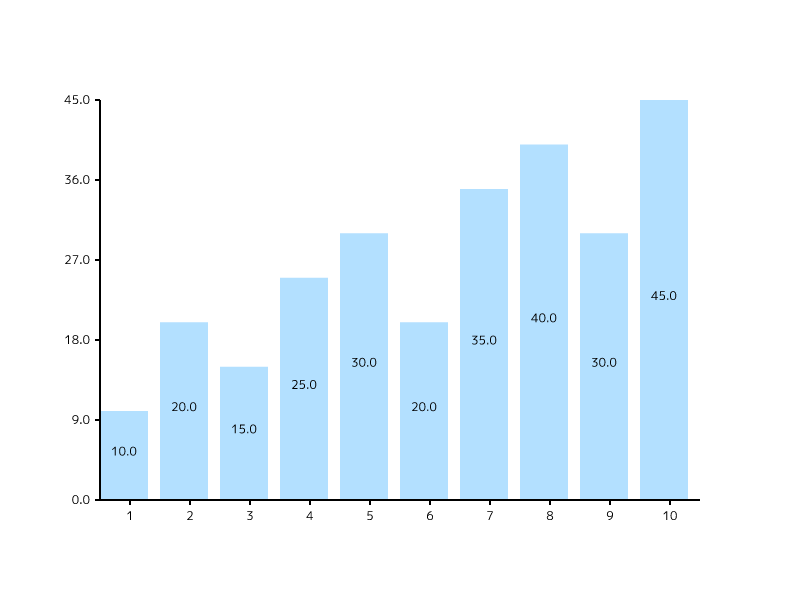
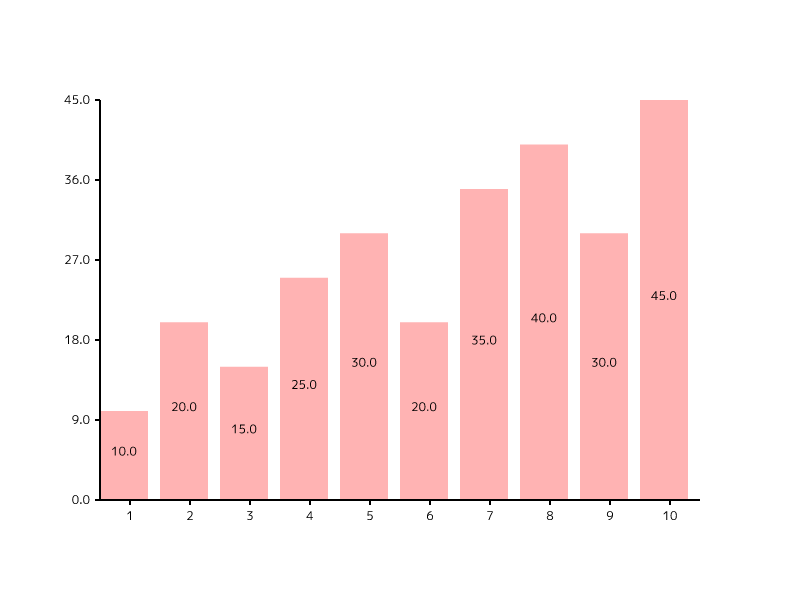
🎨 feat: enhance chart color customization
- Add colors field to GraphRequest struct

- Implement color customization for bar, line, and scatter charts

- Update bar chart to use single color for all bars

- Update scatter plot to use single color for all points

- Update line chart to use single color for line and points

- Update README examples with color parameters

- Remove version from wrangler.toml

Changed region(s): [[0.125, 0.15, 0.875, 0.84]]

diff --git a/src/lib.rs b/src/lib.rs
@@ -49,6 +49,7 @@ struct GraphRequest {
     title: Option<String>,
     x_label: Option<String>,
     y_label: Option<String>,
+    colors: Option<Vec<String>>, // Add colors field
 }
 
 #[event(fetch)]
@@ -85,16 +86,17 @@ pub async fn main(mut req: Request, _env: Env, _ctx: Context) -> Result<Response
 fn parse_query_params(url: Url) -> core::result::Result<GraphRequest, &'static str> {
     let params = url.query_pairs();
     let mut graph_type = GraphType::default();
-    let mut data = Vec::new();
-    let mut series = Vec::new();
-    let mut title = None;
-    let mut x_label = None;
-    let mut y_label = None;
+    let mut data: Vec<f64> = Vec::new();
+    let mut series: Vec<Series> = Vec::new();
+    let mut title: Option<String> = None;
+    let mut x_label: Option<String> = None;
+    let mut y_label: Option<String> = None;
+    let mut colors: Option<Vec<String>> = None;
 
     // シリーズデータのための一時的な保存領域
-    let mut series_values = Vec::new();
-    let mut series_labels = Vec::new();
-    let mut series_colors = Vec::new();
+    let mut series_values: Vec<f64> = Vec::new();
+    let mut series_labels: Vec<String> = Vec::new();
+    let mut series_colors: Vec<String> = Vec::new();
 
     for (key, value) in params {
         match key.as_ref() {
@@ -121,7 +123,7 @@ fn parse_query_params(url: Url) -> core::result::Result<GraphRequest, &'static s
                 series_labels = value.split(',').map(|s| s.trim().to_string()).collect();
             }
             "colors" => {
-                series_colors = value.split(',').map(|s| s.trim().to_string()).collect();
+                colors = Some(value.split(',').map(|s| s.trim().to_string()).collect());
             }
             "title" => title = Some(value.to_string()),
             "x_label" => x_label = Some(value.to_string()),
@@ -135,7 +137,7 @@ fn parse_query_params(url: Url) -> core::result::Result<GraphRequest, &'static s
         let mut series_data = Vec::new();
         for (i, &value) in series_values.iter().enumerate() {
             let label = series_labels.get(i).cloned();
-            let color = series_colors.get(i).cloned();
+            let color = colors.as_ref().and_then(|c| c.get(i).cloned());
             series_data.push(DataPoint {
                 value,
                 label,
@@ -145,7 +147,7 @@ fn parse_query_params(url: Url) -> core::result::Result<GraphRequest, &'static s
         series.push(Series {
             name: None,
             data: series_data,
-            color: None,
+            color: colors.as_ref().and_then(|c| c.first().cloned()),
         });
     }
 
@@ -160,7 +162,14 @@ fn parse_query_params(url: Url) -> core::result::Result<GraphRequest, &'static s
         title,
         x_label,
         y_label,
+        colors,
     })
+}
+
+fn get_default_colors() -> Vec<&'static str> {
+    vec![
+        "#0000FF", "#FFB3B3", "#B3E0FF", "#FFE6B3", "#B3FFB3", "#E6B3FF", "#FFD9B3",
+    ]
 }
 
 fn create_chart(graph_req: &GraphRequest) -> core::result::Result<Vec<u8>, String> {
@@ -179,22 +188,53 @@ fn create_chart(graph_req: &GraphRequest) -> core::result::Result<Vec<u8>, Strin
             data: graph_req
                 .data
                 .iter()
-                .map(|&v| DataPoint {
+                .enumerate()
+                .map(|(i, &v)| DataPoint {
                     value: v,
                     label: None,
-                    color: None,
+                    color: graph_req.colors.as_ref().and_then(|c| c.get(i).cloned()),
                 })
                 .collect(),
-            color: None,
+            color: graph_req.colors.as_ref().and_then(|c| c.first().cloned()),
         }]
     } else {
         graph_req.series.clone()
     };
 
     let (chart_content, needs_axes) = match graph_req.graph_type {
-        GraphType::Bar => (generate_bar_chart_svg(&graph_req.data), true),
-        GraphType::Scatter => (generate_scatter_chart_svg(&graph_req.data), true),
-        GraphType::Line => (generate_line_chart_svg(&graph_req.data), true),
+        GraphType::Bar => (
+            generate_bar_chart_svg(
+                &graph_req.data,
+                &series[0]
+                    .data
+                    .iter()
+                    .filter_map(|d| d.color.clone())
+                    .collect::<Vec<String>>(),
+            ),
+            true,
+        ),
+        GraphType::Scatter => (
+            generate_scatter_chart_svg(
+                &graph_req.data,
+                &series[0]
+                    .data
+                    .iter()
+                    .filter_map(|d| d.color.clone())
+                    .collect::<Vec<String>>(),
+            ),
+            true,
+        ),
+        GraphType::Line => (
+            generate_line_chart_svg(
+                &graph_req.data,
+                &series[0]
+                    .data
+                    .iter()
+                    .filter_map(|d| d.color.clone())
+                    .collect::<Vec<String>>(),
+            ),
+            true,
+        ),
         GraphType::Pie => (generate_pie_chart_svg(&series, false), false),
         GraphType::Donut => (generate_pie_chart_svg(&series, true), false),
         GraphType::Area => (generate_area_chart_svg(&series), true),
@@ -325,10 +365,15 @@ fn generate_x_axis_ticks(num_bars: usize) -> String {
     ticks
 }
 
-fn generate_bar_chart_svg(data: &[f64]) -> String {
+fn generate_bar_chart_svg(data: &[f64], colors: &[String]) -> String {
     let max_value = data.iter().copied().fold(f64::NEG_INFINITY, f64::max);
     let bar_width = 600.0 / data.len() as f64;
     let scale = 400.0 / max_value;
+    let default_colors = get_default_colors();
+    let color = colors
+        .first()
+        .map(|s| s.as_str())
+        .unwrap_or(default_colors[0]);
 
     data.iter()
         .enumerate()
@@ -339,11 +384,12 @@ fn generate_bar_chart_svg(data: &[f64]) -> String {
             let text_x = x + (bar_width * 0.4);
             let text_y = y + (height / 2.0);
             format!(
-                "<rect x=\"{}\" y=\"{}\" width=\"{}\" height=\"{}\" fill=\"#B3E0FF\"/><path d=\"M {} {} h 0\" stroke=\"white\" stroke-width=\"1\"/><path d=\"M {} {} h 0\" stroke=\"black\" stroke-width=\"1\"/><path d=\"M {} {} h 0\" stroke=\"white\" stroke-width=\"2\" fill=\"none\"/>{}>",
+                "<rect x=\"{}\" y=\"{}\" width=\"{}\" height=\"{}\" fill=\"{}\"/><path d=\"M {} {} h 0\" stroke=\"white\" stroke-width=\"1\"/><path d=\"M {} {} h 0\" stroke=\"black\" stroke-width=\"1\"/><path d=\"M {} {} h 0\" stroke=\"white\" stroke-width=\"2\" fill=\"none\"/>{}>",
                 x,
                 y,
                 bar_width * 0.8,
                 height,
+                color,
                 text_x,
                 text_y,
                 text_x,
@@ -357,54 +403,60 @@ fn generate_bar_chart_svg(data: &[f64]) -> String {
         .join("\n")
 }
 
-fn generate_line_chart_svg(data: &[f64]) -> String {
+fn generate_line_chart_svg(data: &[f64], colors: &[String]) -> String {
     let max_value = data.iter().copied().fold(f64::NEG_INFINITY, f64::max);
     let segment_width = 600.0 / (data.len() - 1) as f64;
     let scale = 400.0 / max_value;
+    let default_colors = get_default_colors();
+    let color = colors
+        .get(0)
+        .map(|s| s.as_str())
+        .unwrap_or(default_colors[0]);
 
-    // パスデータを生成
-    let path_data = data
-        .iter()
-        .enumerate()
-        .map(|(i, &value)| {
-            let x = i as f64 * segment_width;
-            let y = 400.0 - (value * scale);
-            if i == 0 {
-                format!("M {} {}", x, y)
-            } else {
-                format!("L {} {}", x, y)
-            }
-        })
-        .collect::<Vec<_>>()
-        .join(" ");
+    let mut path = String::new();
+    let mut points = String::new();
 
-    // データポイントとラベルを生成
-    let points = data
-        .iter()
-        .enumerate()
-        .map(|(i, &value)| {
-            let x = i as f64 * segment_width;
-            let y = 400.0 - (value * scale);
-            format!(
-                "<circle cx=\"{}\" cy=\"{}\" r=\"4\" fill=\"#B3E0FF\"/>{}>",
-                x,
-                y,
-                generate_value_text(x, y - 15.0, value)
-            )
-        })
-        .collect::<Vec<_>>()
-        .join("\n");
+    // Generate path
+    path.push_str(&format!("<path d=\"M"));
+    for (i, &value) in data.iter().enumerate() {
+        let x = i as f64 * segment_width;
+        let y = 400.0 - (value * scale);
+        if i == 0 {
+            path.push_str(&format!(" {} {}", x, y));
+        } else {
+            path.push_str(&format!(" L {} {}", x, y));
+        }
+    }
+    path.push_str(&format!(
+        "\" stroke=\"{}\" stroke-width=\"2\" fill=\"none\"/>",
+        color
+    ));
 
-    format!(
-        "<path d=\"{}\" stroke=\"#B3E0FF\" stroke-width=\"2\" fill=\"none\"/>{}>",
-        path_data, points
-    )
+    // Generate points
+    for (i, &value) in data.iter().enumerate() {
+        let x = i as f64 * segment_width;
+        let y = 400.0 - (value * scale);
+        points.push_str(&format!(
+            "<circle cx=\"{}\" cy=\"{}\" r=\"4\" fill=\"{}\"/>{}>",
+            x,
+            y,
+            color,
+            generate_value_text(x, y - 15.0, value)
+        ));
+    }
+
+    format!("{}\n{}", path, points)
 }
 
-fn generate_scatter_chart_svg(data: &[f64]) -> String {
+fn generate_scatter_chart_svg(data: &[f64], colors: &[String]) -> String {
     let max_value = data.iter().copied().fold(f64::NEG_INFINITY, f64::max);
     let segment_width = 600.0 / data.len() as f64;
     let scale = 400.0 / max_value;
+    let default_colors = get_default_colors();
+    let color = colors
+        .first()
+        .map(|s| s.as_str())
+        .unwrap_or(default_colors[0]);
 
     data.iter()
         .enumerate()
@@ -412,9 +464,10 @@ fn generate_scatter_chart_svg(data: &[f64]) -> String {
             let x = i as f64 * segment_width;
             let y = 400.0 - (value * scale);
             format!(
-                "<circle cx=\"{}\" cy=\"{}\" r=\"6\" fill=\"#B3E0FF\"/>{}>",
+                "<circle cx=\"{}\" cy=\"{}\" r=\"6\" fill=\"{}\"/>{}>",
                 x,
                 y,
+                color,
                 generate_value_text(x, y - 15.0, value)
             )
         })
@@ -571,7 +624,7 @@ fn generate_area_chart_svg(series: &[Series]) -> String {
             let x = i as f64 * segment_width;
             let y = 400.0 - (data.value * scale);
             paths.push_str(&format!(
-                "<circle cx=\"{}\" cy=\"{}\" r=\"4\" fill=\"#B3E0FF\"/>{}>",
+                "<circle cx=\"{}\" cy=\"{}\" r=\"4\" fill=\"#0000FF\"/>{}>",
                 x,
                 y,
                 generate_value_text(x, y - 15.0, data.value)

diff --git a/README.md b/README.md
@@ -54,13 +54,17 @@ The service will run on `http://localhost:8787` by default.
 
 ```bash
 # Using GET request
-curl "http://localhost:8787/api?type=line&data=10,20,15,25,30,20,35,40,30,45" \
+curl "http://localhost:8787/api?type=line&data=10,20,15,25,30,20,35,40,30,45&colors=%23B3E0FF" \
   -o images/line_chart.png
 
 # Using POST request
 curl -X POST http://localhost:8787 \
   -H "Content-Type: application/json" \
-  -d '{"graph_type": "line", "data": [10, 20, 15, 25, 30, 20, 35, 40, 30, 45]}' \
+  -d '{
+    "graph_type": "line",
+    "data": [10, 20, 15, 25, 30, 20, 35, 40, 30, 45],
+    "color": "#B3E0FF"
+  }' \
   -o images/line_chart.png
 ```
 
@@ -70,13 +74,17 @@ curl -X POST http://localhost:8787 \
 
 ```bash
 # Using GET request
-curl "http://localhost:8787/api?type=bar&data=10,20,15,25,30,20,35,40,30,45" \
+curl "http://localhost:8787/api?type=bar&data=10,20,15,25,30,20,35,40,30,45&colors=%23FFB3B3" \
   -o images/bar_chart.png
 
 # Using POST request
 curl -X POST http://localhost:8787 \
   -H "Content-Type: application/json" \
-  -d '{"graph_type": "bar", "data": [10, 20, 15, 25, 30, 20, 35, 40, 30, 45]}' \
+  -d '{
+    "graph_type": "bar",
+    "data": [10, 20, 15, 25, 30, 20, 35, 40, 30, 45],
+    "color": "#FFB3B3"
+  }' \
   -o images/bar_chart.png
 ```
 
@@ -86,13 +94,17 @@ curl -X POST http://localhost:8787 \
 
 ```bash
 # Using GET request
-curl "http://localhost:8787/api?type=scatter&data=10,20,15,25,30,20,35,40,30,45" \
+curl "http://localhost:8787/api?type=scatter&data=10,20,15,25,30,20,35,40,30,45&colors=%23FFE6B3" \
   -o images/scatter_plot.png
 
 # Using POST request
 curl -X POST http://localhost:8787 \
   -H "Content-Type: application/json" \
-  -d '{"graph_type": "scatter", "data": [10, 20, 15, 25, 30, 20, 35, 40, 30, 45]}' \
+  -d '{
+    "graph_type": "scatter",
+    "data": [10, 20, 15, 25, 30, 20, 35, 40, 30, 45],
+    "color": "#FFE6B3"
+  }' \
   -o images/scatter_plot.png
 ```
 
@@ -102,7 +114,7 @@ curl -X POST http://localhost:8787 \
 
 ```bash
 # Using GET request with customization
-curl "http://localhost:8787/api?type=bar&data=10,20,15,25,30&title=Monthly%20Sales%202024&x_label=Month&y_label=Sales%20(millions)" \
+curl "http://localhost:8787/api?type=bar&data=10,20,15,25,30&title=Monthly%20Sales%202024&x_label=Month&y_label=Sales%20(millions)&colors=%23E6B3FF" \
   -o images/custom_chart.png
 
 # Using POST request with customization
@@ -113,7 +125,8 @@ curl -X POST http://localhost:8787 \
     "data": [10, 20, 15, 25, 30],
     "title": "Monthly Sales 2024",
     "x_label": "Month",
-    "y_label": "Sales (millions)"
+    "y_label": "Sales (millions)",
+    "color": "#E6B3FF"
   }' \
   -o images/custom_chart.png
 ```
